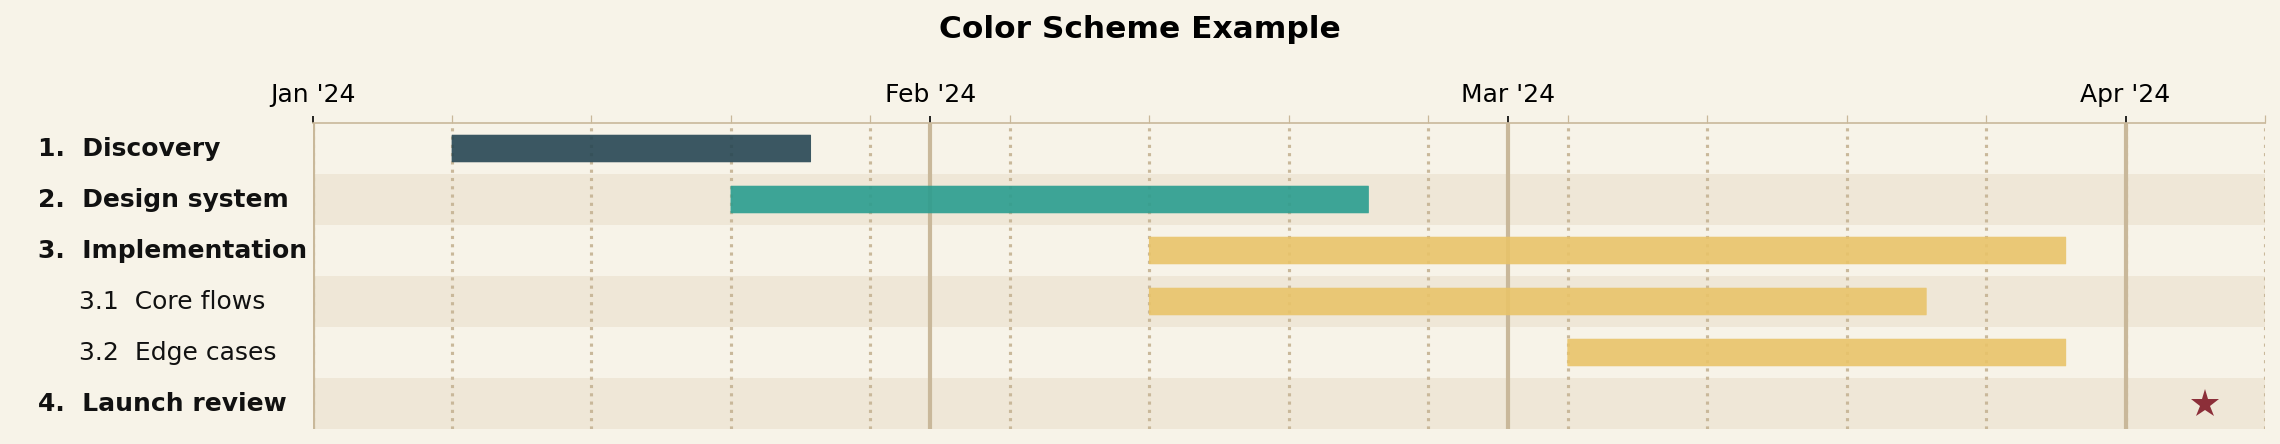
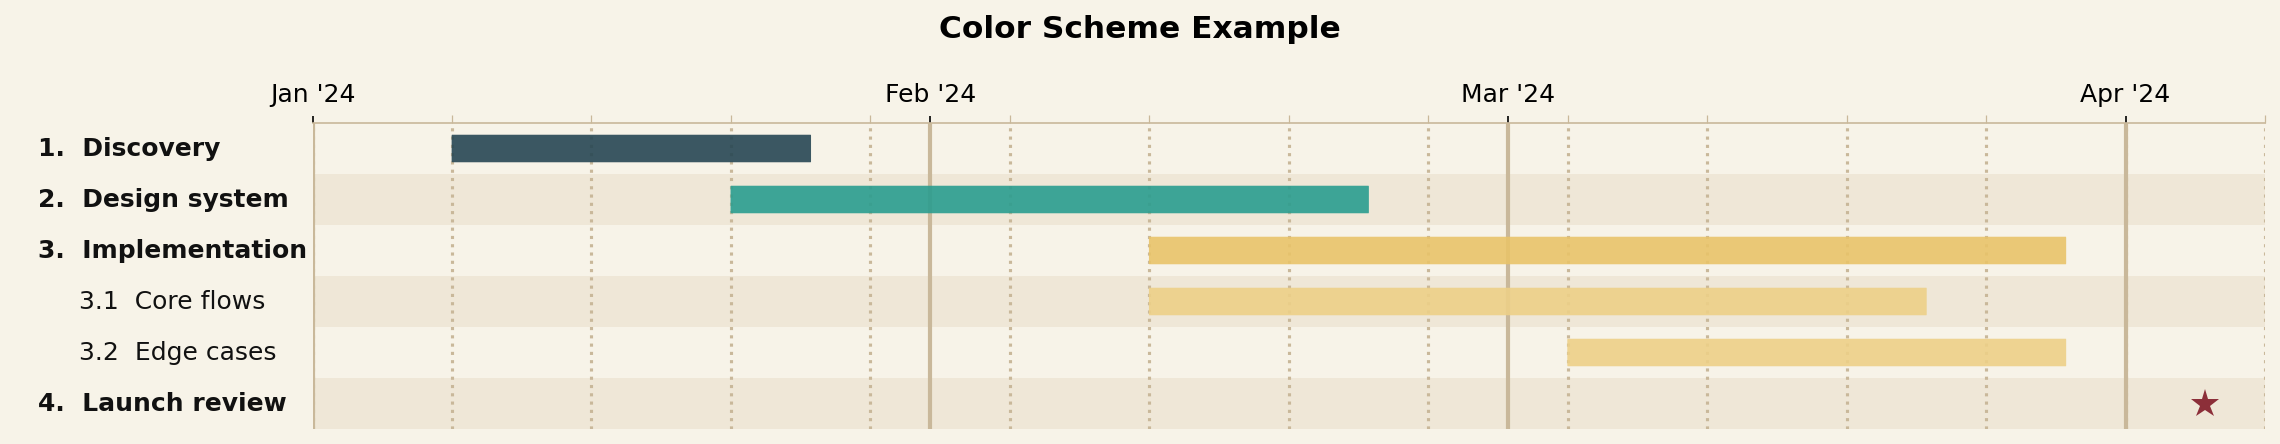
feat: add recursive subtask color lightening

Changed region(s): [[0.4982, 0.6441, 0.8719, 0.732], [0.6851, 0.7613, 0.9031, 0.8491]]

diff --git a/tests/test_renderer.py b/tests/test_renderer.py
@@ -15,6 +15,7 @@ from jsonantt.renderer import (
     _darken,
     _flatten,
     _format_compare_offset,
+    _lighten,
     _milestone_color,
     _milestone_marker,
     _prepare_compare_rows,
@@ -166,6 +167,67 @@ class TestFlatten:
         child_color = rows[1].color
         assert parent_color == "#112233"
         assert child_color == "#112233"
+
+    def test_child_inherited_color_lightens_when_configured(self):
+        cfg = parse_chart(
+            {
+                "style": {"subtask_lightening_pct": 20},
+                "tasks": [
+                    {
+                        "name": "Parent",
+                        "color": "#112233",
+                        "children": [
+                            {"name": "Child", "start": "2024-01-01", "end": "2024-01-10"}
+                        ],
+                    }
+                ]
+            }
+        )
+        rows = _flatten(cfg.tasks, cfg.style)
+        assert rows[0].color == "#112233"
+        assert rows[1].color == _lighten("#112233", 0.20)
+
+    def test_nested_inherited_color_lightens_recursively(self):
+        cfg = parse_chart(
+            {
+                "style": {"subtask_lightening_pct": 20},
+                "tasks": [
+                    {
+                        "name": "Parent",
+                        "color": "#112233",
+                        "children": [
+                            {
+                                "name": "Child",
+                                "children": [
+                                    {"name": "Grandchild", "start": "2024-01-01", "end": "2024-01-10"}
+                                ],
+                            }
+                        ],
+                    }
+                ]
+            }
+        )
+        rows = _flatten(cfg.tasks, cfg.style)
+        assert rows[1].color == _lighten("#112233", 0.20)
+        assert rows[2].color == _lighten(rows[1].color, 0.20)
+
+    def test_explicit_child_color_does_not_lighten(self):
+        cfg = parse_chart(
+            {
+                "style": {"subtask_lightening_pct": 20},
+                "tasks": [
+                    {
+                        "name": "Parent",
+                        "color": "#112233",
+                        "children": [
+                            {"name": "Child", "color": "#ABCDEF", "start": "2024-01-01", "end": "2024-01-10"}
+                        ],
+                    }
+                ]
+            }
+        )
+        rows = _flatten(cfg.tasks, cfg.style)
+        assert rows[1].color == "#ABCDEF"
 
     def test_default_milestone_color_is_yellow(self):
         cfg = parse_chart({"tasks": [{"name": "M", "milestone": True, "date": "2024-01-01"}]})

diff --git a/jsonantt/renderer.py b/jsonantt/renderer.py
@@ -33,6 +33,24 @@ def _milestone_color(row: _Row, style: Style) -> str:
     """Return the milestone color for a row, preferring task color override."""
     return row.task.color if row.task.color else style.milestone_color
 
+
+def _lighten(color: str, amount: float = 0.0) -> str:
+    """Lighten *color* toward white by *amount* in the range 0..1."""
+    try:
+        color = color.lstrip("#")
+        if len(color) != 6:
+            return color
+        amount = max(0.0, min(1.0, amount))
+        red = int(color[0:2], 16)
+        green = int(color[2:4], 16)
+        blue = int(color[4:6], 16)
+        red = round(red + (255 - red) * amount)
+        green = round(green + (255 - green) * amount)
+        blue = round(blue + (255 - blue) * amount)
+        return f"#{red:02X}{green:02X}{blue:02X}"
+    except Exception:
+        return color if color.startswith("#") else f"#{color}"
+
 # ---------------------------------------------------------------------------
 # Internal helper types
 # ---------------------------------------------------------------------------
@@ -859,13 +877,14 @@ def _flatten(
     rows: List[_Row] = []
     palette = style.colors or ["#4472C4"]
     max_depth_index = None if max_depth == 0 else max_depth - 1
+    lighten_amount = max(0.0, min(100.0, style.subtask_lightening_pct)) / 100.0
 
     for task_idx, task in enumerate(tasks):
         # colour resolution: explicit > parent > palette
         if task.color:
             color = task.color
         elif parent_color and depth > 0:
-            color = parent_color
+            color = _lighten(parent_color, lighten_amount)
         else:
             color = palette[palette_index % len(palette)]
             palette_index += 1

diff --git a/tests/test_parser.py b/tests/test_parser.py
@@ -191,7 +191,7 @@ class TestParseChart:
 
     def test_style_parsed(self):
         data = {
-            "style": {"width": 20, "font_size": 12, "indent_size": 4, "number_tasks": False, "table_colorize": False, "table_show_markers": False, "milestone_color": "#FFFF00", "milestone_marker": "o"},
+            "style": {"width": 20, "font_size": 12, "indent_size": 4, "number_tasks": False, "table_colorize": False, "table_show_markers": False, "milestone_color": "#FFFF00", "milestone_marker": "o", "subtask_lightening_pct": 20},
             "tasks": [],
         }
         cfg = parse_chart(data)
@@ -203,6 +203,7 @@ class TestParseChart:
         assert cfg.style.table_show_markers is False
         assert cfg.style.milestone_color == "#FFFF00"
         assert cfg.style.milestone_marker == "o"
+        assert cfg.style.subtask_lightening_pct == 20
 
     def test_task_marker_override_parsed(self):
         data = {

diff --git a/jsonantt/models.py b/jsonantt/models.py
@@ -104,6 +104,7 @@ class Style:
     font_size: float = 12.0      # base font size in pts
     indent_size: int = 3         # spaces added per depth level
     label_fraction: float = 0.0  # 0 = auto-size label area from measured text width
+    subtask_lightening_pct: float = 0.0  # percentage to lighten inherited child colors per depth step
     colors: List[str] = field(default_factory=lambda: list(DEFAULT_PALETTE))
     background: str = "#FFFFFF"  # figure background colour
     grid_color: str = "#E0E0E0"  # vertical gridline colour

diff --git a/jsonantt/parser.py b/jsonantt/parser.py
@@ -79,6 +79,7 @@ def _parse_style(data: Dict[str, Any]) -> Style:
         "font_size": "font_size",
         "indent_size": "indent_size",
         "label_fraction": "label_fraction",
+        "subtask_lightening_pct": "subtask_lightening_pct",
         "colors": "colors",
         "background": "background",
         "grid_color": "grid_color",

diff --git a/README.md b/README.md
@@ -12,6 +12,7 @@ Charts are rendered with [matplotlib](https://matplotlib.org/) so they can be sa
 - **Milestone markers** — easy `"milestone": true` flag with chart-level defaults and per-milestone marker overrides.
 - **Optional task descriptions** — add long-form context per task for table-style output.
 - **Fully colourable** — set colours per-task; children inherit their parent's colour.
+- **Recursive child colour lightening** — inherited subtask colours can optionally lighten at each nested level.
 - **Clean, indented y-axis labels** — task names are left-aligned with proper indentation per depth level.
 - **Table output mode** — render a task summary table with the same hierarchy and colour cues.
 - **PNG / PDF / SVG output** — whatever matplotlib supports.
@@ -160,6 +161,7 @@ Use `--date-line` to draw a single vertical reference line on chart outputs. It 
 | `font_size` | `12` | Base font size in points |
 | `indent_size` | `3` | Spaces added per depth level in labels |
 | `label_fraction` | `0.0` | Fraction of figure width used for labels; `0` means auto-size from measured text width |
+| `subtask_lightening_pct` | `0.0` | Percentage to lighten inherited subtask colours at each nested level; `20` means each inherited step moves 20% toward white |
 | `colors` | palette | Array of default hex colours cycled per top-level task |
 | `background` | `"#FFFFFF"` | Figure background colour |
 | `grid_color` | `"#E0E0E0"` | Vertical gridline colour |
@@ -181,47 +183,47 @@ Use `--date-line` to draw a single vertical reference line on chart outputs. It 
 
 ## Examples
 
-See the [`examples/`](examples/) folder for ready-to-run JSON files.
+See the [examples/](https://github.com/briday1/jsonantt/tree/main/examples) folder for ready-to-run JSON files.
 
 ### Simple project
 
-[`examples/simple.json`](examples/simple.json) — a five-phase project with milestones
+[examples/simple.json](https://github.com/briday1/jsonantt/blob/main/examples/simple.json) — a five-phase project with milestones
 
-![simple](examples/simple.png)
+![simple](https://raw.githubusercontent.com/briday1/jsonantt/main/examples/simple.png)
 
 ### Dependencies
 
-[`examples/dependencies.json`](examples/dependencies.json) — `id`, `duration`, and `not_before`
+[examples/dependencies.json](https://github.com/briday1/jsonantt/blob/main/examples/dependencies.json) — `id`, `duration`, and `not_before`
 
-![dependencies](examples/dependencies.png)
+![dependencies](https://raw.githubusercontent.com/briday1/jsonantt/main/examples/dependencies.png)
 
 ### Render depth
 
-[`examples/renderdepth.json`](examples/renderdepth.json) — nested tasks that are useful with `-r` / `--renderdepth`
+[examples/renderdepth.json](https://github.com/briday1/jsonantt/blob/main/examples/renderdepth.json) — nested tasks that are useful with `-r` / `--renderdepth`
 
 Full depth, `render_depth=0`:
 
-![render depth all](examples/renderdepth.png)
+![render depth all](https://raw.githubusercontent.com/briday1/jsonantt/main/examples/renderdepth.png)
 
 One child level, `-r 2`:
 
-![render depth mid](examples/renderdepth-mid.png)
+![render depth mid](https://raw.githubusercontent.com/briday1/jsonantt/main/examples/renderdepth-mid.png)
 
 Top level only, `-r 1`:
 
-![render depth top](examples/renderdepth-top.png)
+![render depth top](https://raw.githubusercontent.com/briday1/jsonantt/main/examples/renderdepth-top.png)
 
 Table output, `-t`:
 
-![render depth table](examples/renderdepth-table.png)
+![render depth table](https://raw.githubusercontent.com/briday1/jsonantt/main/examples/renderdepth-table.png)
 
 Milestones only, `-t --milestones-only`:
 
-![render depth milestones table](examples/renderdepth-milestones.png)
+![render depth milestones table](https://raw.githubusercontent.com/briday1/jsonantt/main/examples/renderdepth-milestones.png)
 
 No milestones, `-t --no-milestones`:
 
-![render depth no milestones table](examples/renderdepth-no-milestones.png)
+![render depth no milestones table](https://raw.githubusercontent.com/briday1/jsonantt/main/examples/renderdepth-no-milestones.png)
 
 Try the same file with different depth limits:
 
@@ -237,55 +239,55 @@ jsonantt -t examples/renderdepth.json examples/renderdepth-table.csv # CSV table
 
 ### Color schemes
 
-[`examples/colors.json`](examples/colors.json) — custom palette, background, grid, row band, milestone colours, and custom milestone markers
+[examples/colors.json](https://github.com/briday1/jsonantt/blob/main/examples/colors.json) — custom palette, background, grid, row band, milestone colours, and custom milestone markers
 
-![color schemes](examples/colors.png)
+![color schemes](https://raw.githubusercontent.com/briday1/jsonantt/main/examples/colors.png)
 
 ### Compare mode
 
-[`examples/compare-planned.json`](examples/compare-planned.json) and [`examples/compare-actual.json`](examples/compare-actual.json) — planned vs actual comparison with a CLI date line
+[examples/compare-planned.json](https://github.com/briday1/jsonantt/blob/main/examples/compare-planned.json) and [examples/compare-actual.json](https://github.com/briday1/jsonantt/blob/main/examples/compare-actual.json) — planned vs actual comparison with a CLI date line
 
 Compare chart:
 
-![compare chart](examples/compare.png)
+![compare chart](https://raw.githubusercontent.com/briday1/jsonantt/main/examples/compare.png)
 
 Compare table image:
 
-![compare table](examples/compare-table.png)
+![compare table](https://raw.githubusercontent.com/briday1/jsonantt/main/examples/compare-table.png)
 
 CSV export:
 
-[`examples/compare-table.csv`](examples/compare-table.csv)
+[examples/compare-table.csv](https://github.com/briday1/jsonantt/blob/main/examples/compare-table.csv)
 
 ### Description wrapping
 
-[`examples/description-wrap.json`](examples/description-wrap.json) — demonstrates normal word wrapping in table output and the edge case where a single unbroken token will not wrap
+[examples/description-wrap.json](https://github.com/briday1/jsonantt/blob/main/examples/description-wrap.json) — demonstrates normal word wrapping in table output and the edge case where a single unbroken token will not wrap
 
 Table output, `-t`:
 
-![description wrap table](examples/description-wrap-table.png)
+![description wrap table](https://raw.githubusercontent.com/briday1/jsonantt/main/examples/description-wrap-table.png)
 
 CSV export:
 
-[`examples/description-wrap-table.csv`](examples/description-wrap-table.csv)
+[examples/description-wrap-table.csv](https://github.com/briday1/jsonantt/blob/main/examples/description-wrap-table.csv)
 
 ### Complex roadmap
 
-[`examples/complex.json`](examples/complex.json) — a multi-year roadmap with deep nesting, task descriptions, and custom colours
+[examples/complex.json](https://github.com/briday1/jsonantt/blob/main/examples/complex.json) — a multi-year roadmap with deep nesting, task descriptions, and custom colours
 
-![complex](examples/complex.png)
+![complex](https://raw.githubusercontent.com/briday1/jsonantt/main/examples/complex.png)
 
 Table output, `-t`:
 
-![complex table](examples/complex-table.png)
+![complex table](https://raw.githubusercontent.com/briday1/jsonantt/main/examples/complex-table.png)
 
 Milestones only, `-t --milestones-only`:
 
-![complex milestones table](examples/complex-milestones.png)
+![complex milestones table](https://raw.githubusercontent.com/briday1/jsonantt/main/examples/complex-milestones.png)
 
 No milestones, `-t --no-milestones`:
 
-![complex no milestones table](examples/complex-no-milestones.png)
+![complex no milestones table](https://raw.githubusercontent.com/briday1/jsonantt/main/examples/complex-no-milestones.png)
 
 
 ## How to Run